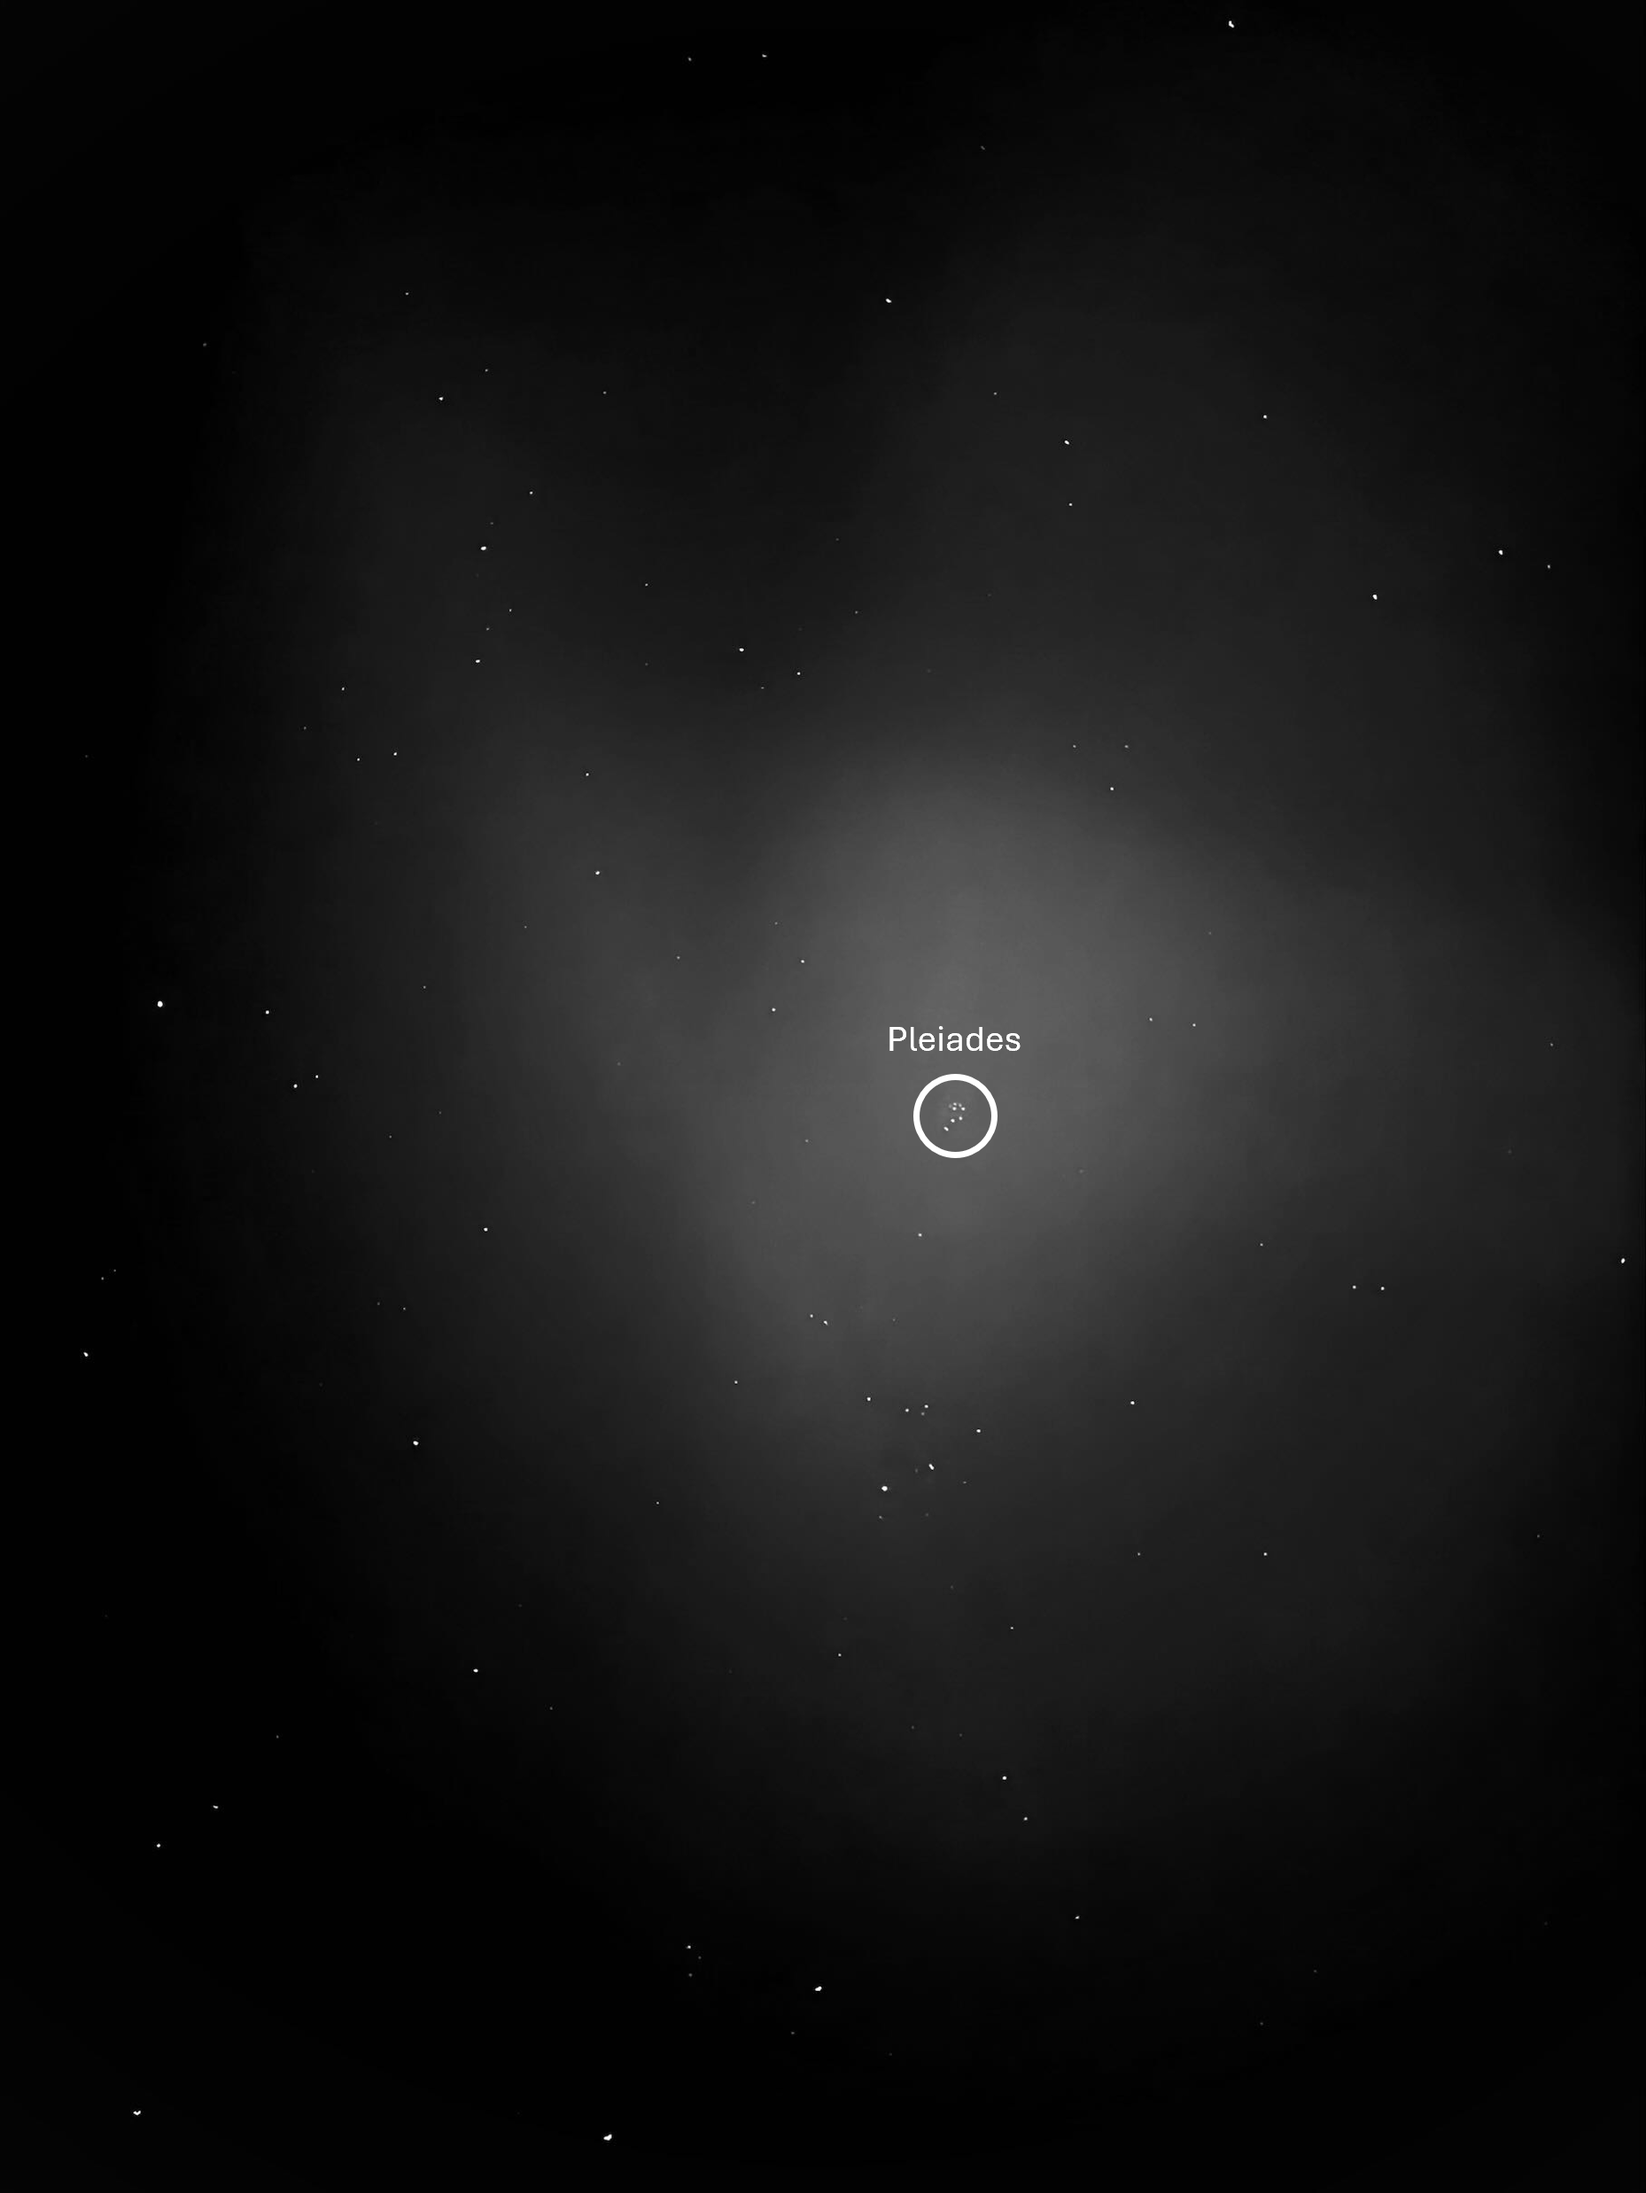
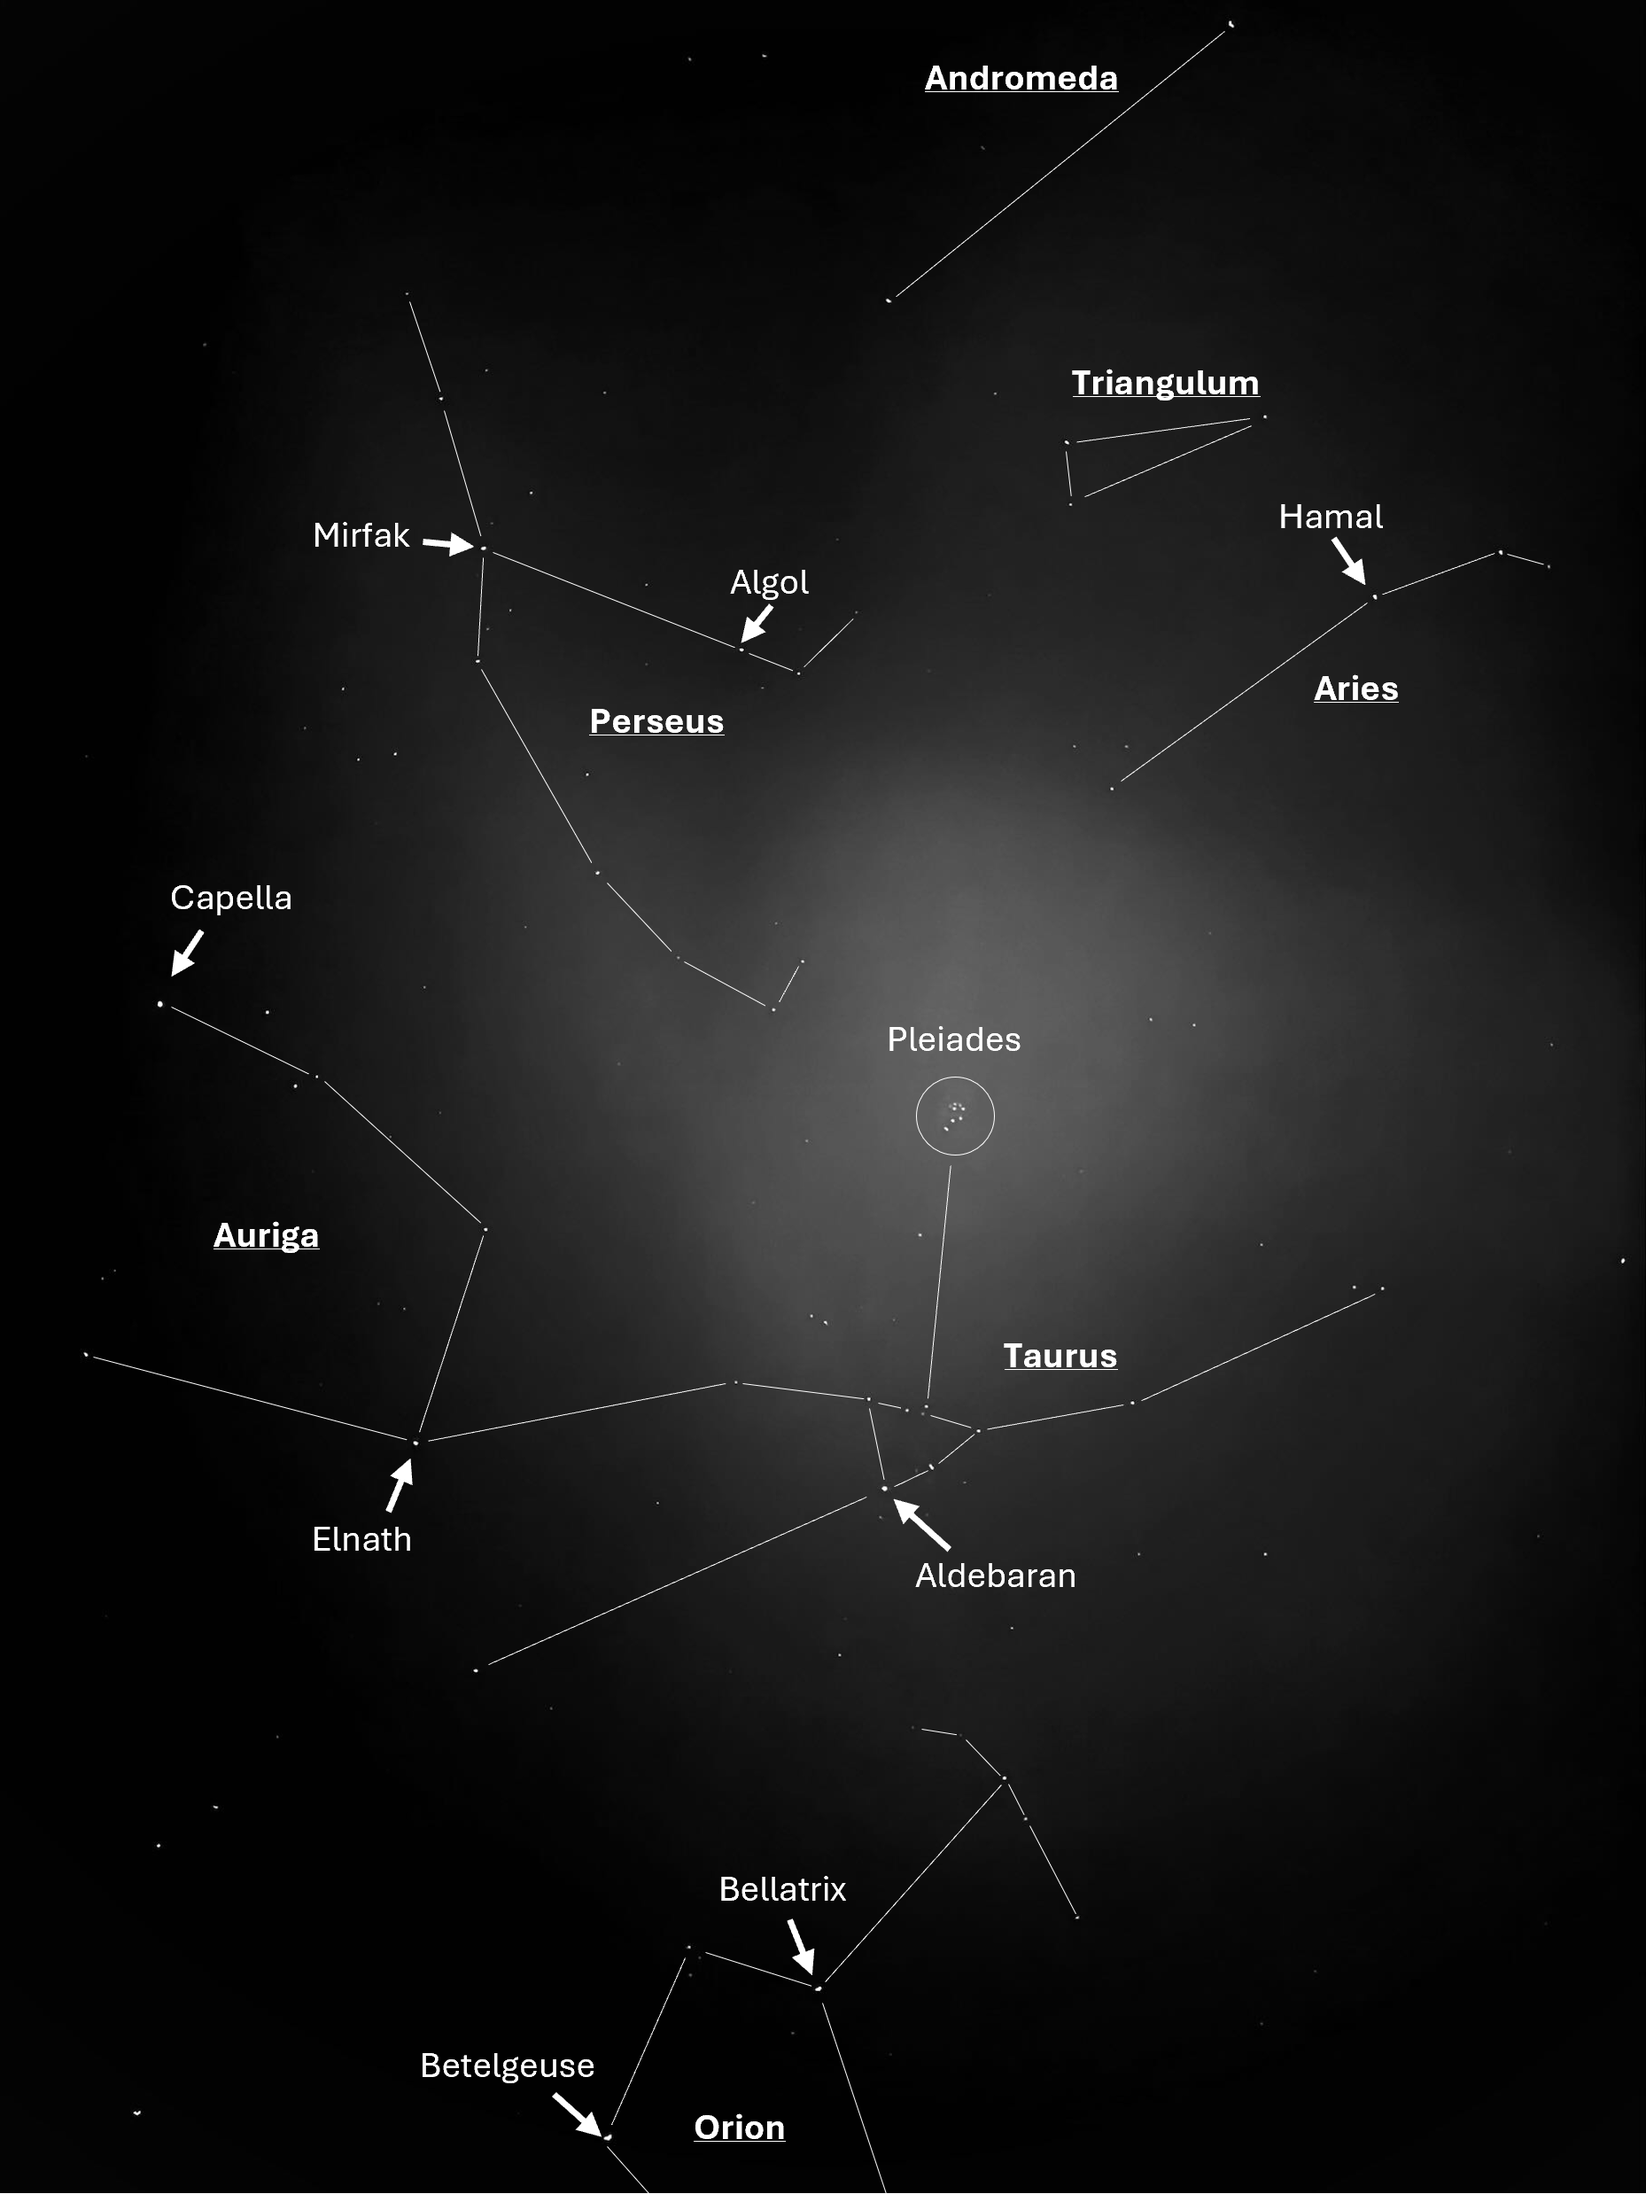
Fix posts

diff --git a/_posts/2026-01-18-yokohama-night-date-jan-2026.md b/_posts/2026-01-18-yokohama-night-date-jan-2026.md
@@ -6,7 +6,7 @@ title: "Yokohama Night Sky January 2026"
 author: Adrian
 description: >
     Yokohama is a nice place to live. It has (mini) golf and a great night scape. This weekend, I had an (unplanned) date with my wife.
-thumbnail: assets/img/book_the_body_keeps_the_score.jpg
+thumbnail: assets/img/yokohama_night_sky_20260117.jpg
 ---
 <div class="row mt-3">
     <div class="col-sm mt-3 mt-md-0">

diff --git a/_posts/2026-01-15-book-review-inspired.md b/_posts/2026-01-15-book-review-inspired.md
@@ -6,7 +6,7 @@ title: "My review of Inspired - How to Create Tech Products Customers Love"
 author: Adrian
 description: >
     A book I should have read before trying to contribute to software development.
-thumbnail: assets/img/book_the_body_keeps_the_score.jpg
+thumbnail: assets/img/book_inspired.jpg
 ---
 <div class="row mt-3">
     <div class="col-sm mt-3 mt-md-0">
